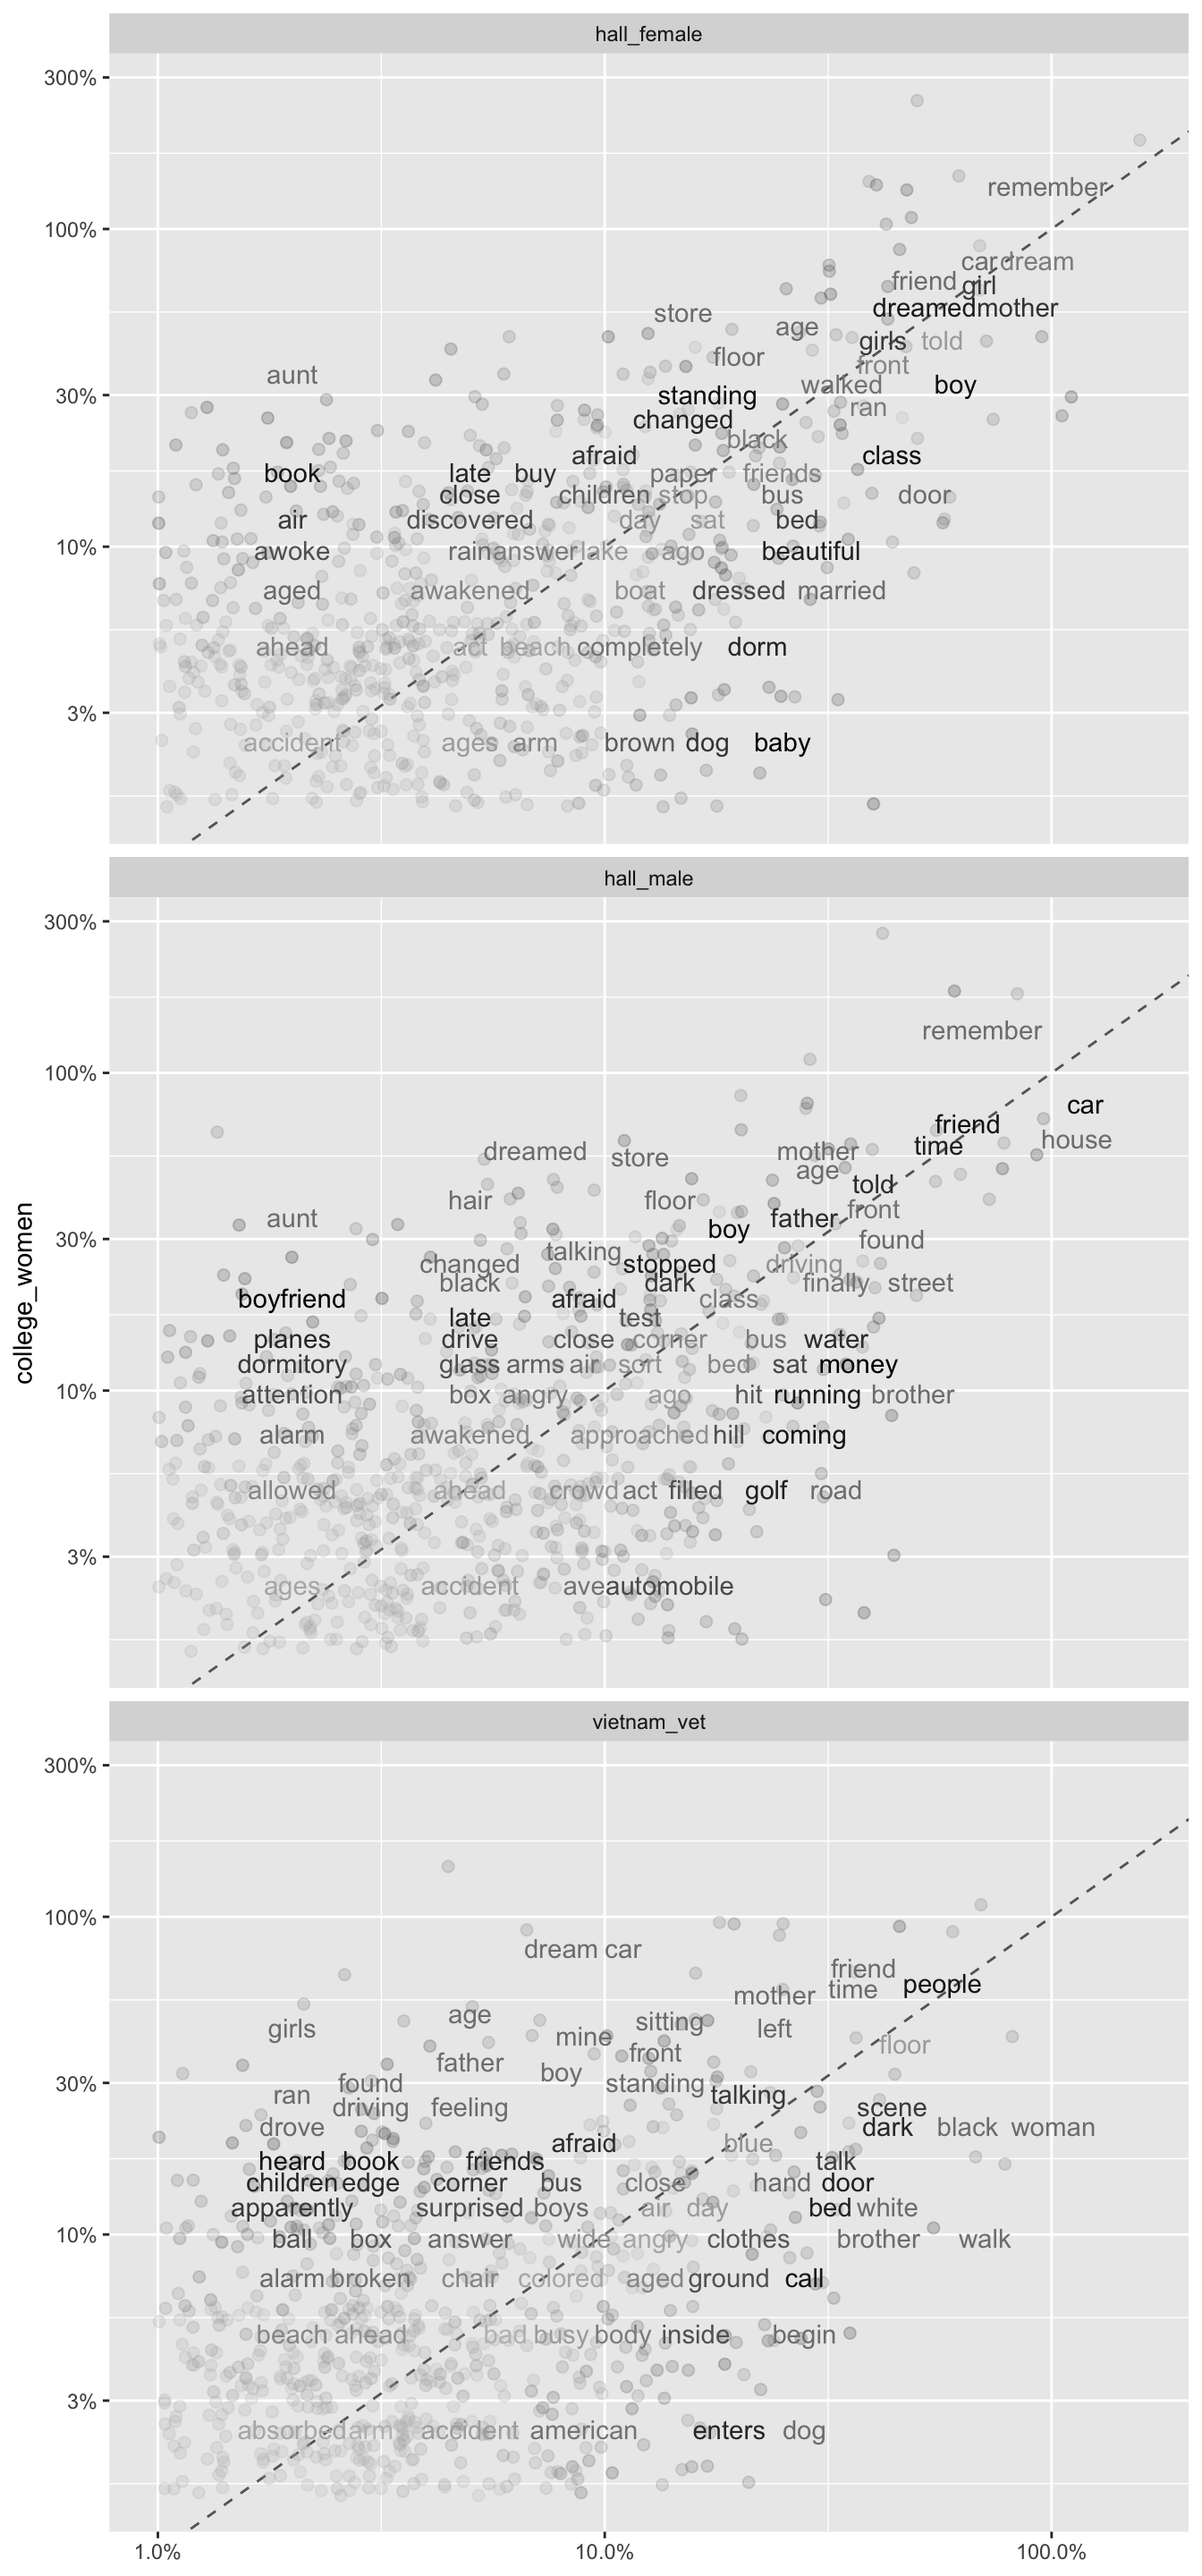
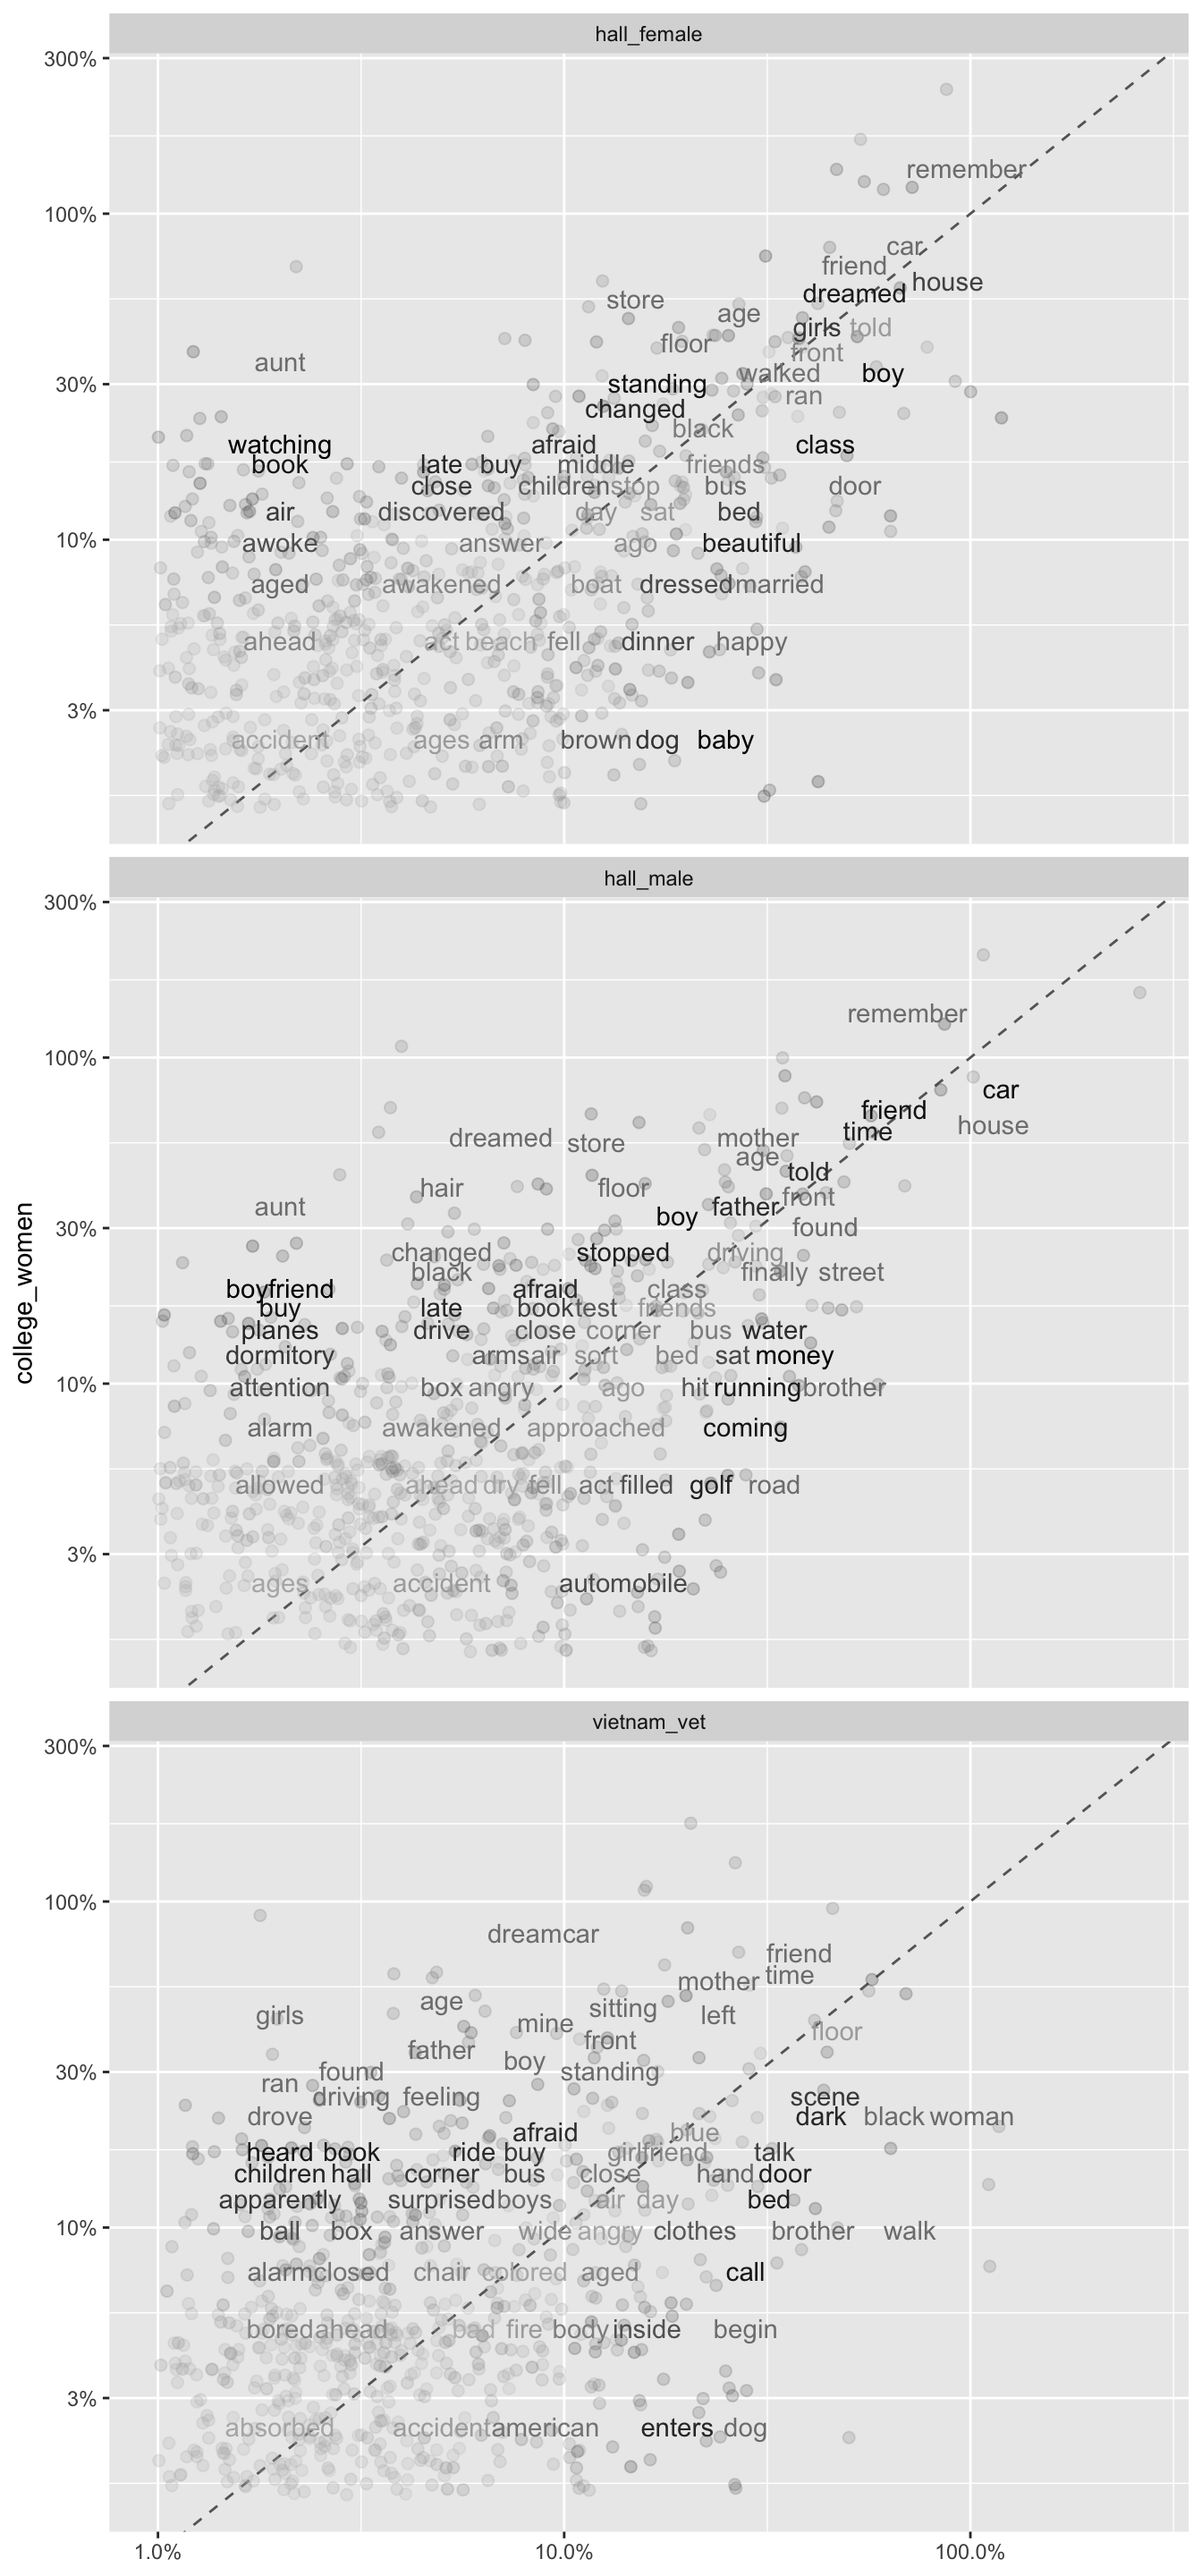
private practice added.

diff --git a/public/post/manipulating-text-data-from-dreams/index.html b/public/post/manipulating-text-data-from-dreams/index.html
@@ -548,16 +548,16 @@ df$sample &lt;- as.factor(df$sample)</code></pre>
 car::some(df) %&gt;%
   custom_view()</code></pre>
 <pre><code>##           sample                                                    dream
-## 1  college_women I dreamed that I was riding in an automobile with a frie
-## 2  college_women I dreamed I was in the room of an old house which over l
-## 3  college_women In my dream I pestered my mother until she allowed me to
-## 4      hall_male All the students of Cleveland (high school and college) 
-## 5      hall_male My twin brother Seymour and I were among a large number 
-## 6      hall_male I dreamed that two people I didn&#39;t know and myself went 
-## 7    hall_female My kid sister (15) and I were getting ready for bed in t
-## 8    hall_female I was joining a sorority. I saw a large room in which we
-## 9    hall_female I dreamed that the parents of a boy I have known for ove
-## 10   hall_female A girl in a pair of pants and bra only was standing on t</code></pre>
+## 1  college_women My shoes needed soles but since I couldn&#39;t find a shoema
+## 2  college_women I dreamed that I was riding in an automobile with a frie
+## 3    vietnam_vet It&#39;s windy. I&#39;m climbing in an open pit mine of gray whi
+## 4    vietnam_vet On a desolate farm, in a dirt lot, a very dark young Ind
+## 5      hall_male I was, living here in Cleveland in a fraternity house, b
+## 6      hall_male I was riding out a road in Bob&#39;s car. The road ran besid
+## 7    hall_female I was going to a baseball game at the stadium. I was to 
+## 8    hall_female I dreamt that I was sitting in Kulas with my father. The
+## 9    hall_female I was walking down a street with a group of boys and gir
+## 10   hall_female I was at a summer resort. As I was going down the stairs</code></pre>
 <p>Julia Silge and David Robinson’s book <strong>Text Mining with R - A tidy approach</strong> sets off at a cracking pace, at least for relatively newbies to R such as myself. They assumes a degree of familiarity with tidyverse concepts and when they introduce concepts such as tidytext format, they can sometimes address three or four steps in one example. I will unpack some of these as individual steps to illustrate what is going on, while using our dream data as the material for processing.</p>
 <p>At the moment our df only contains the sample name (a categorical variable with four values) and the text of the dream. It might be helpful to index the dreams before we tokenise the text in them. So let’s introduce a new variable that we will call dream_number. This will index each dream between 1 - 400 in the dataframe.</p>
 <pre class="r"><code>df &lt;-  df %&gt;%

diff --git a/public/post/using-tidytext-to-compare-samples-of-dreams/index.html b/public/post/using-tidytext-to-compare-samples-of-dreams/index.html
@@ -557,16 +557,16 @@ library(car)</code></pre>
 <pre><code>## # A tibble: 10 x 5
 ##    word    college_women hall_female hall_male vietnam_vet
 ##    &lt;chr&gt;           &lt;dbl&gt;       &lt;dbl&gt;     &lt;dbl&gt;       &lt;dbl&gt;
-##  1 caught           0.03        0.07      0.09        0.09
-##  2 cover            0.03        0.05      0.02        0.03
-##  3 drive            0.18        0.05      0.05        0.08
-##  4 driver           0.03        0.05      0.05        0.13
-##  5 flying           0.03        0.02      0.07        0.09
-##  6 hall             0.18        0.27      0.12        0.03
-##  7 putting          0.09        0.05      0.02        0.02
-##  8 reached          0.03        0.02      0.14        0.03
-##  9 staying          0.06        0.1       0.02        0.05
-## 10 teacher          0.27        0.15      0.12        0.13</code></pre>
+##  1 afraid           0.24        0.1       0.09        0.09
+##  2 brought          0.03        0.02      0.02        0.03
+##  3 dog              0.03        0.17      0.16        0.28
+##  4 hands            0.03        0.07      0.07        0.14
+##  5 level            0.03        0.02      0.05        0.03
+##  6 night            0.12        0.27      0.16        0.19
+##  7 sat              0.15        0.17      0.26        0.02
+##  8 seat             0.09        0.2       0.07        0.09
+##  9 speak            0.03        0.02      0.02        0.09
+## 10 women            0.15        0.05      0.02        0.11</code></pre>
 <p>Then the next step is to decide which sample is going to be our reference sample. This will have its column of frequencies replicated and stacked so that each of the other samples can be compared with it. When we <em>gather()</em>, we only include the samples to compare with the reference and not the reference itself. For simplicity, we can use the first column in our df (college_women) as our reference group and compare the other three samples to this. We might predict at this point that the hall_women will have the most similar dreams and then the hall_men, with the vietnam_vet being the most different. We can check this prediction later on when we run some correlation coefficients.</p>
 <pre class="r"><code>df_gather &lt;- df_spread %&gt;%
   gather(sample, proportion, hall_female:vietnam_vet)</code></pre>

diff --git a/public/index.html b/public/index.html
@@ -562,7 +562,7 @@
     
     <h1>Biography</h1>
 
-    <p>I am a Senior Lecturer in Clinical Psychology at the School of Applied Psychology in University College Cork. I am involved in all aspects of the doctoral programme in Clinical Psychology including teaching, research, selection and placement visits. I have specific responsibilities for  placement coordinator and lead the modules on Intellectual disabilities and Autism. I also contribute to the MA programme in Mental Health and supervise students for MA research projects. Since moving to the university in August 2017 I have started learning R as a tool for research, statistical analysis and text mining. I am still a novice, and my blog posts below are an attempt to explore some of the ways in which R can be used. Feel free to message me if you have ideas to improve the code or have other comments or feedback.</p>
+    <p>I am a Senior Lecturer in Clinical Psychology at the School of Applied Psychology in University College Cork and a Consultant Clinical Psychologist in private practice. I am involved in all aspects of the doctoral programme in Clinical Psychology including teaching, research, selection and placement visits. I have specific responsibilities for  placement coordinator and lead the modules on Intellectual disabilities and Autism. I also contribute to the MA programme in Mental Health and supervise students for MA research projects. Since moving to the university in August 2017 I have started learning R as a tool for research, statistical analysis and text mining. I am still a novice, and my blog posts below are an attempt to explore some of the ways in which R can be used. Feel free to message me if you have ideas to improve the code or have other comments or feedback.</p>
 
 
     <div class="row">

diff --git a/public/authors/admin/index.html b/public/authors/admin/index.html
@@ -501,7 +501,7 @@
     
     
 
-    <p>I am a Senior Lecturer in Clinical Psychology at the School of Applied Psychology in University College Cork. I am involved in all aspects of the doctoral programme in Clinical Psychology including teaching, research, selection and placement visits. I have specific responsibilities for  placement coordinator and lead the modules on Intellectual disabilities and Autism. I also contribute to the MA programme in Mental Health and supervise students for MA research projects. Since moving to the university in August 2017 I have started learning R as a tool for research, statistical analysis and text mining. I am still a novice, and my blog posts below are an attempt to explore some of the ways in which R can be used. Feel free to message me if you have ideas to improve the code or have other comments or feedback.</p>
+    <p>I am a Senior Lecturer in Clinical Psychology at the School of Applied Psychology in University College Cork and a Consultant Clinical Psychologist in private practice. I am involved in all aspects of the doctoral programme in Clinical Psychology including teaching, research, selection and placement visits. I have specific responsibilities for  placement coordinator and lead the modules on Intellectual disabilities and Autism. I also contribute to the MA programme in Mental Health and supervise students for MA research projects. Since moving to the university in August 2017 I have started learning R as a tool for research, statistical analysis and text mining. I am still a novice, and my blog posts below are an attempt to explore some of the ways in which R can be used. Feel free to message me if you have ideas to improve the code or have other comments or feedback.</p>
 
 
     <div class="row">
